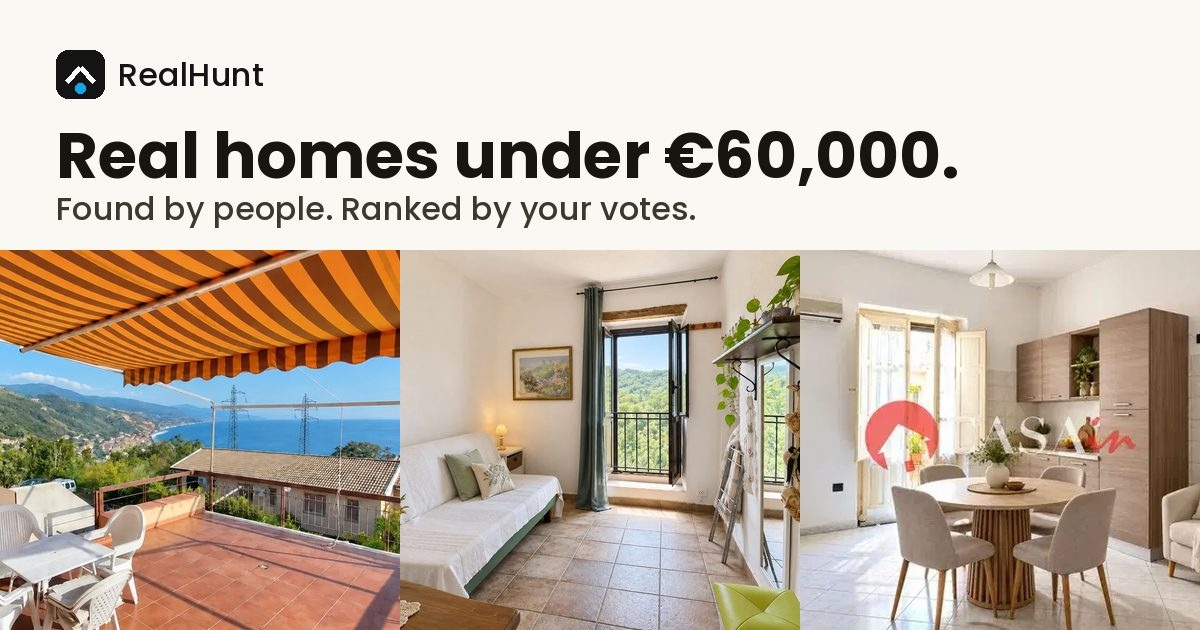
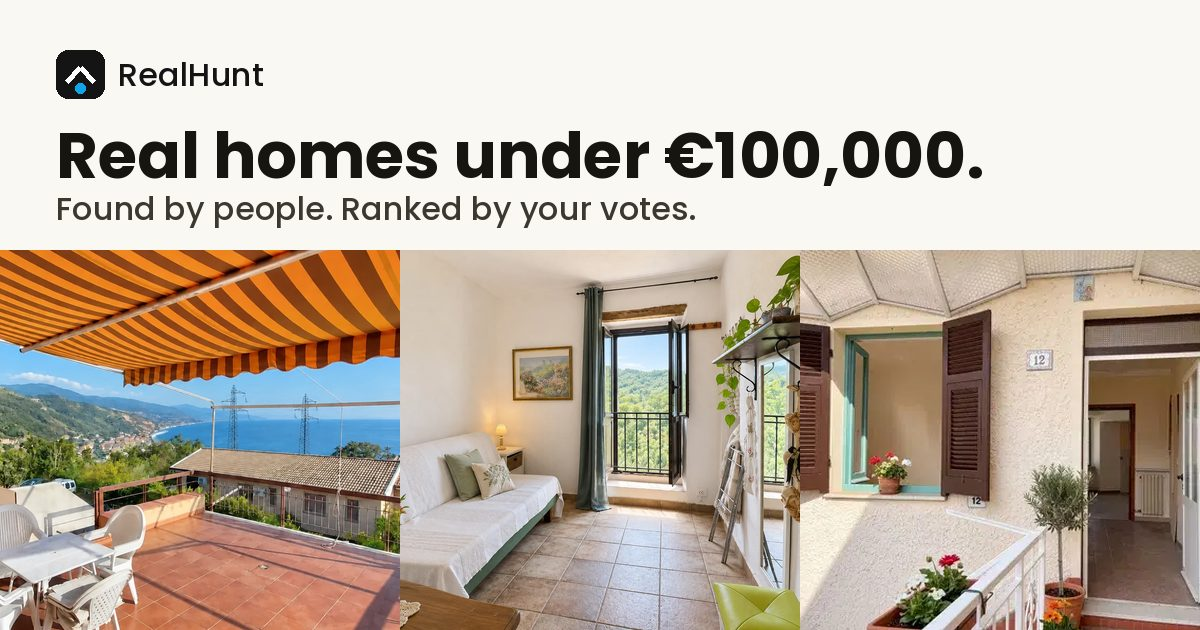
Share image: under 100k everywhere (old 60k images replaced)

Changed region(s): [[0.6475, 0.3921, 1.0, 1.0], [0.5858, 0.2111, 0.8325, 0.3016]]

diff --git a/src/pages/IndexNew.tsx b/src/pages/IndexNew.tsx
@@ -322,7 +322,7 @@ const IndexNew = () => {
     title: "RealHunt — Is this listing actually a good deal?",
     description:
       "Paste any Zillow, Rightmove, Idealista, Redfin, Airbnb or PropertyFinder URL. Get a forensic real-estate score in under 10 seconds. Every number sourced.",
-    ogImage: "https://score-insight-rank.lovable.app/og-default.jpg",
+    ogImage: "https://realhunt.co/og-default-100k.jpg",
   });
 
   const { user } = useAuth();

diff --git a/src/pages/BestDealsCountry.tsx b/src/pages/BestDealsCountry.tsx
@@ -35,7 +35,7 @@ const BestDealsCountry = () => {
     title: `${title} — RealHunt`,
     description,
     canonicalUrl: `https://realhunt.co/best-deals/${encodeURIComponent(country.toLowerCase())}`,
-    ogImage: "https://realhunt.co/og-default.jpg",
+    ogImage: "https://realhunt.co/og-default-100k.jpg",
   });
 
   useEffect(() => {

diff --git a/src/pages/MarketCity.tsx b/src/pages/MarketCity.tsx
@@ -34,7 +34,7 @@ const MarketCity = () => {
     title: `${title} — RealHunt`,
     description,
     canonicalUrl: `https://realhunt.co/market/${encodeURIComponent(city.toLowerCase())}`,
-    ogImage: "https://realhunt.co/og-default.jpg",
+    ogImage: "https://realhunt.co/og-default-100k.jpg",
   });
 
   useEffect(() => {
